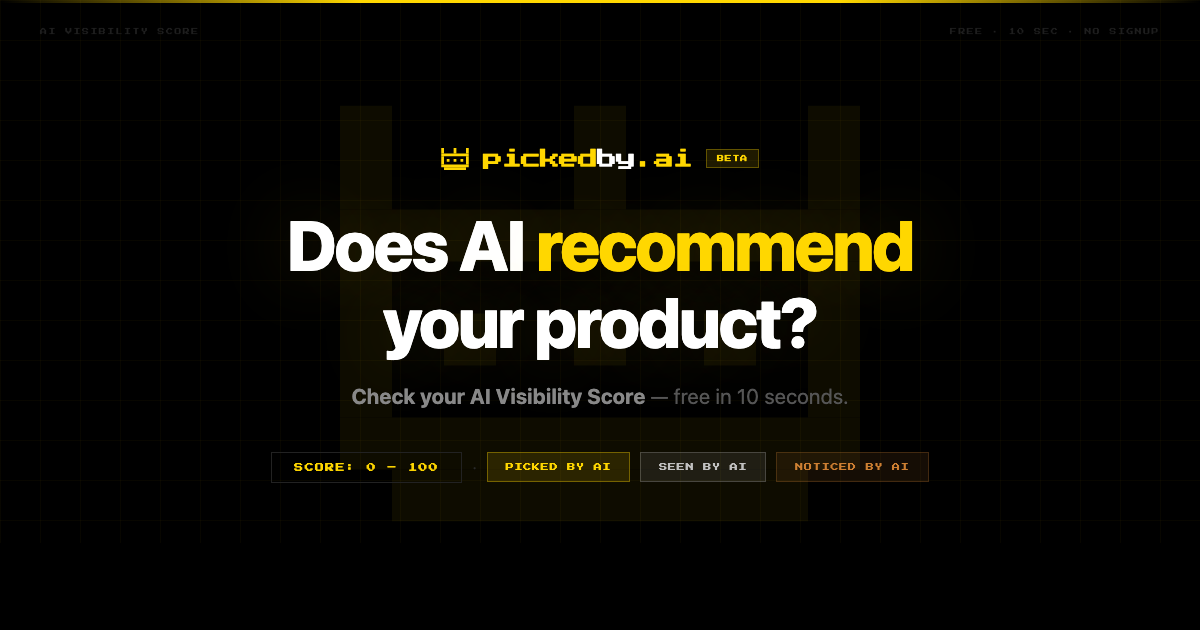
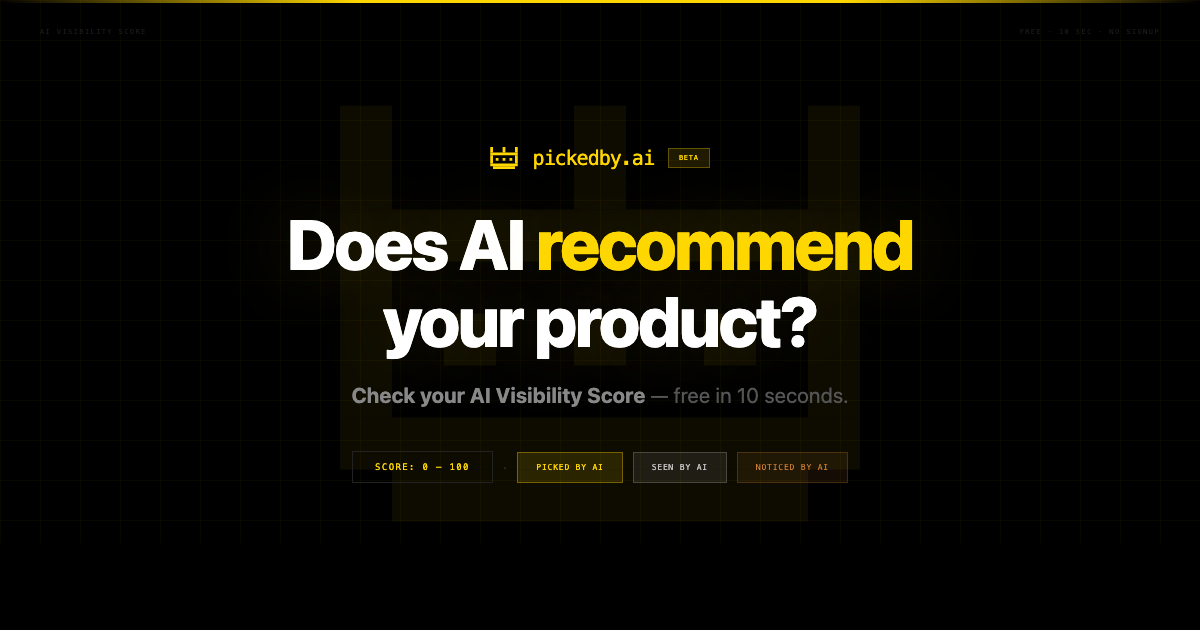
brand: 로고 전체 골드 통일 — by 흰색 제거, 크라운+pickedby.ai 전 페이지 적용, og.png 재생성

diff --git a/landing/terms.html b/landing/terms.html
@@ -9,8 +9,8 @@
     * { box-sizing: border-box; margin: 0; padding: 0; }
     body { font-family: -apple-system, BlinkMacSystemFont, "Segoe UI", sans-serif; background: #000; color: #ccc; padding: 3rem 1.5rem 6rem; }
     .wrap { max-width: 640px; margin: 0 auto; }
-    .logo { font-size: 1.1rem; font-weight: 700; color: #fff; margin-bottom: 3rem; }
-    .logo span { color: #FFD700; }
+    @import url('https://fonts.googleapis.com/css2?family=Press+Start+2P&display=swap');
+    .logo { font-family: 'Press Start 2P', monospace; font-size: 0.75rem; color: #FFD700; margin-bottom: 3rem; display: flex; align-items: center; gap: 10px; letter-spacing: -1px; }
     h1 { font-size: 1.4rem; color: #fff; margin-bottom: 0.4rem; }
     .updated { font-size: 0.8rem; color: #555; margin-bottom: 2.5rem; }
     h2 { font-size: 0.95rem; color: #fff; margin: 2rem 0 0.6rem; }
@@ -24,7 +24,10 @@
 </head>
 <body>
   <div class="wrap">
-    <div class="logo">picked<span>by</span>.ai</div>
+    <div class="logo">
+      <svg width="18" height="14" viewBox="0 0 20 16" fill="#FFD700" xmlns="http://www.w3.org/2000/svg"><rect x="0" y="0" width="2" height="4"/><rect x="9" y="0" width="2" height="4"/><rect x="18" y="0" width="2" height="4"/><rect x="0" y="4" width="20" height="2"/><rect x="0" y="6" width="2" height="6"/><rect x="18" y="6" width="2" height="6"/><rect x="4" y="8" width="2" height="2"/><rect x="9" y="8" width="2" height="2"/><rect x="14" y="8" width="2" height="2"/><rect x="0" y="12" width="20" height="2"/><rect x="2" y="14" width="16" height="2"/></svg>
+      <span>pickedby.ai</span>
+    </div>
     <h1>Terms of Service</h1>
     <p class="updated">Last updated: April 6, 2026</p>
 

diff --git a/landing/privacy.html b/landing/privacy.html
@@ -9,8 +9,8 @@
     * { box-sizing: border-box; margin: 0; padding: 0; }
     body { font-family: -apple-system, BlinkMacSystemFont, "Segoe UI", sans-serif; background: #000; color: #ccc; padding: 3rem 1.5rem 6rem; }
     .wrap { max-width: 640px; margin: 0 auto; }
-    .logo { font-size: 1.1rem; font-weight: 700; color: #fff; margin-bottom: 3rem; }
-    .logo span { color: #FFD700; }
+    @import url('https://fonts.googleapis.com/css2?family=Press+Start+2P&display=swap');
+    .logo { font-family: 'Press Start 2P', monospace; font-size: 0.75rem; color: #FFD700; margin-bottom: 3rem; display: flex; align-items: center; gap: 10px; letter-spacing: -1px; }
     h1 { font-size: 1.4rem; color: #fff; margin-bottom: 0.4rem; }
     .updated { font-size: 0.8rem; color: #555; margin-bottom: 2.5rem; }
     h2 { font-size: 0.95rem; color: #fff; margin: 2rem 0 0.6rem; }
@@ -24,7 +24,10 @@
 </head>
 <body>
   <div class="wrap">
-    <div class="logo">picked<span>by</span>.ai</div>
+    <div class="logo">
+      <svg width="18" height="14" viewBox="0 0 20 16" fill="#FFD700" xmlns="http://www.w3.org/2000/svg"><rect x="0" y="0" width="2" height="4"/><rect x="9" y="0" width="2" height="4"/><rect x="18" y="0" width="2" height="4"/><rect x="0" y="4" width="20" height="2"/><rect x="0" y="6" width="2" height="6"/><rect x="18" y="6" width="2" height="6"/><rect x="4" y="8" width="2" height="2"/><rect x="9" y="8" width="2" height="2"/><rect x="14" y="8" width="2" height="2"/><rect x="0" y="12" width="20" height="2"/><rect x="2" y="14" width="16" height="2"/></svg>
+      <span>pickedby.ai</span>
+    </div>
     <h1>Privacy Policy</h1>
     <p class="updated">Last updated: April 6, 2026</p>
 

diff --git a/landing/blog/why-chatgpt-doesnt-recommend-your-product/index.html b/landing/blog/why-chatgpt-doesnt-recommend-your-product/index.html
@@ -104,7 +104,10 @@
 <body>
 
   <nav class="nav">
-    <a href="/" class="nav-logo">pickedby.ai</a>
+    <a href="/" class="nav-logo" style="display:flex;align-items:center;gap:8px;">
+      <svg width="16" height="13" viewBox="0 0 20 16" fill="#FFD700" xmlns="http://www.w3.org/2000/svg"><rect x="0" y="0" width="2" height="4"/><rect x="9" y="0" width="2" height="4"/><rect x="18" y="0" width="2" height="4"/><rect x="0" y="4" width="20" height="2"/><rect x="0" y="6" width="2" height="6"/><rect x="18" y="6" width="2" height="6"/><rect x="4" y="8" width="2" height="2"/><rect x="9" y="8" width="2" height="2"/><rect x="14" y="8" width="2" height="2"/><rect x="0" y="12" width="20" height="2"/><rect x="2" y="14" width="16" height="2"/></svg>
+      pickedby.ai
+    </a>
     <div class="nav-links">
       <a href="/blog/">Blog</a>
       <a href="/#faq">FAQ</a>

diff --git a/landing/blog/index.html b/landing/blog/index.html
@@ -88,7 +88,10 @@
 <body>
 
   <nav class="nav">
-    <a href="/" class="nav-logo">pickedby.ai</a>
+    <a href="/" class="nav-logo" style="display:flex;align-items:center;gap:8px;">
+      <svg width="16" height="13" viewBox="0 0 20 16" fill="#FFD700" xmlns="http://www.w3.org/2000/svg"><rect x="0" y="0" width="2" height="4"/><rect x="9" y="0" width="2" height="4"/><rect x="18" y="0" width="2" height="4"/><rect x="0" y="4" width="20" height="2"/><rect x="0" y="6" width="2" height="6"/><rect x="18" y="6" width="2" height="6"/><rect x="4" y="8" width="2" height="2"/><rect x="9" y="8" width="2" height="2"/><rect x="14" y="8" width="2" height="2"/><rect x="0" y="12" width="20" height="2"/><rect x="2" y="14" width="16" height="2"/></svg>
+      pickedby.ai
+    </a>
     <div class="nav-links">
       <a href="/blog/">Blog</a>
       <a href="/#faq">FAQ</a>

diff --git a/landing/logo-preview.html b/landing/logo-preview.html
@@ -9,7 +9,7 @@ body { background: #000; padding: 50px; display: flex; flex-direction: column; g
 .card { background: #0d0d0d; border: 1px solid #2a2a2a; padding: 28px 34px; display: flex; flex-direction: column; gap: 18px; }
 .card-label { font-family: 'Press Start 2P', monospace; font-size: 0.5rem; color: #555; letter-spacing: 3px; }
 .logo-row { display: flex; align-items: center; gap: 8px; font-family: 'Press Start 2P', monospace; font-size: 0.85rem; color: #FFD700; letter-spacing: -1px; line-height: 1.6; }
-.logo-row .dot { color: #fff; }
+.logo-row .dot { color: #FFD700; }
 .zoom-row { display: flex; gap: 32px; align-items: flex-end; padding-top: 14px; border-top: 1px solid #1a1a1a; }
 .zoom-item { display: flex; flex-direction: column; align-items: center; gap: 8px; }
 .zoom-label { font-size: 0.6rem; color: #444; font-family: monospace; }

diff --git a/landing/badge-preview.html b/landing/badge-preview.html
@@ -12,7 +12,7 @@ body { background: #000; color: #fff; font-family: 'Press Start 2P', monospace; 
 
 /* Logo */
 .logo-row { display: flex; align-items: center; gap: 8px; font-size: 0.85rem; color: #FFD700; letter-spacing: -1px; margin-bottom: 36px; }
-.logo-row .dot { color: #fff; }
+.logo-row .dot { color: #FFD700; }
 
 /* Size tabs */
 .tabs { display: flex; gap: 4px; margin-bottom: 32px; }

diff --git a/landing/unsubscribe.html b/landing/unsubscribe.html
@@ -29,7 +29,7 @@
       justify-content: center;
       gap: 8px;
     }
-    .logo .by { color: #fff; }
+    .logo .by { color: #FFD700; }
     .icon { font-size: 2.5rem; margin-bottom: 1.5rem; }
     h1 { font-size: 1.3rem; color: #fff; margin-bottom: 0.75rem; font-weight: 700; }
     p { font-size: 0.88rem; color: #666; line-height: 1.7; margin-bottom: 1rem; }

diff --git a/landing/og.html b/landing/og.html
@@ -92,7 +92,7 @@
       letter-spacing: -1px;
       line-height: 1;
     }
-    .logo-text .by { color: #fff; }
+    .logo-text .by { color: #FFD700; }
 
     .beta-chip {
       font-family: 'Press Start 2P', monospace;

diff --git a/landing/index.html b/landing/index.html
@@ -159,7 +159,7 @@
       gap: 8px;
     }
 
-    .logo .dot { color: #fff; }
+    .logo .dot { color: #FFD700; }
 
     .badge-chip {
       font-size: 0.65rem;
